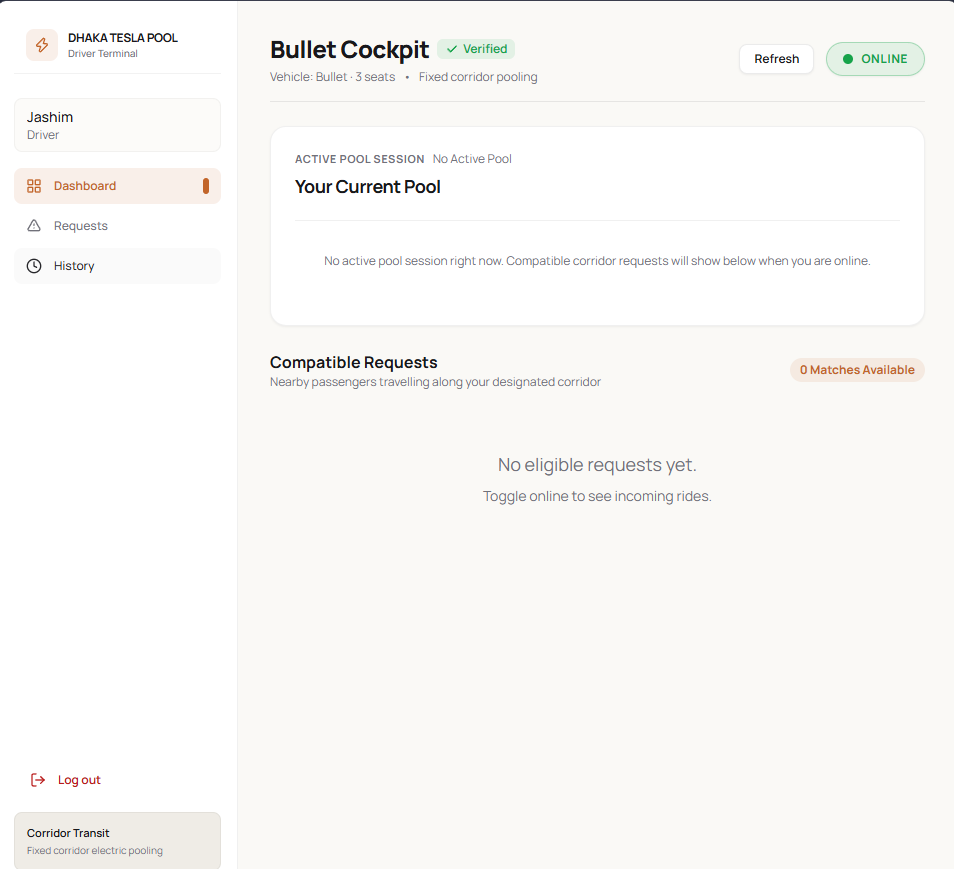
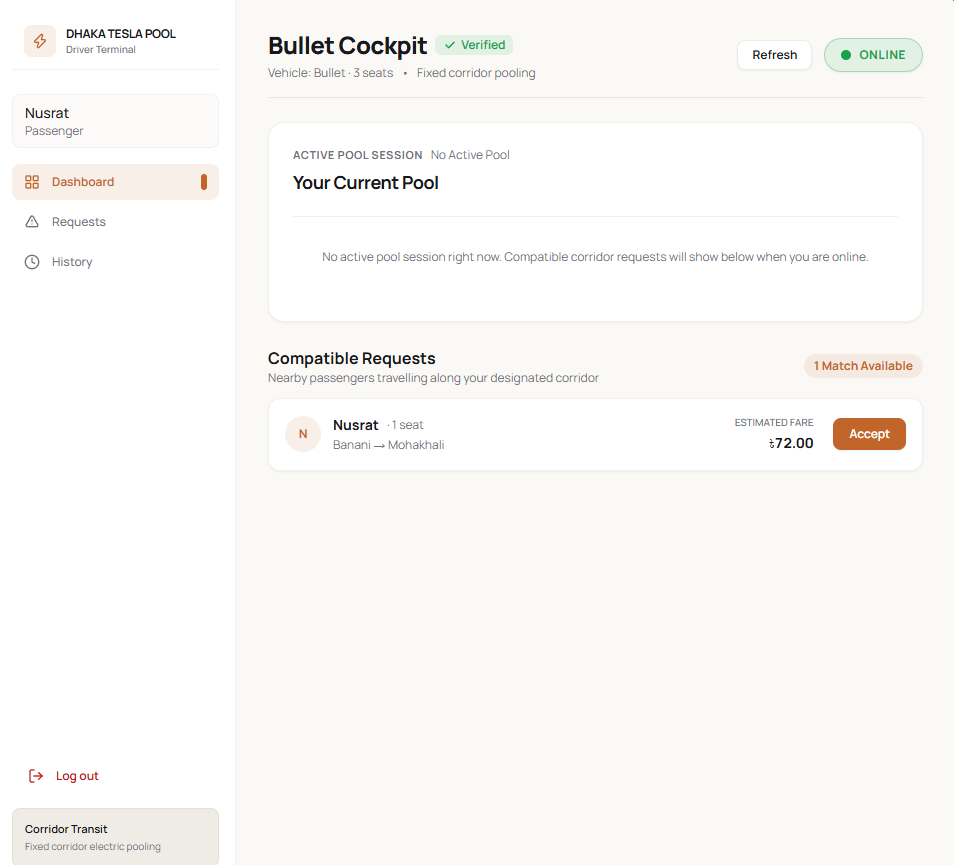
chore: add driver dashboard screenshot and typescript build info

diff --git a/README.md b/README.md
@@ -59,7 +59,6 @@ Dhaka’s transport grid suffers from severe congestion, arbitrary spot pricing,
 ### Driver Dashboard
 ![Driver dashboard](./docs/screenshots/driver-dashboard.png)
 
-> *Note: Visual screenshots are captured manually from the live application. Drop production image files into `docs/screenshots/` to replace the placeholders.*
 
 ---
 
